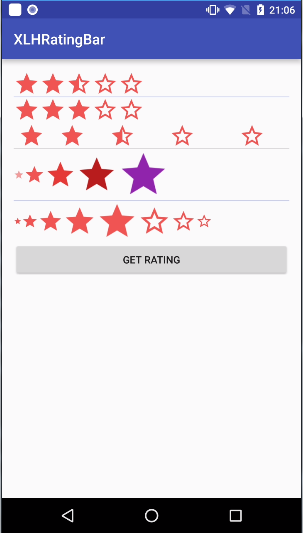
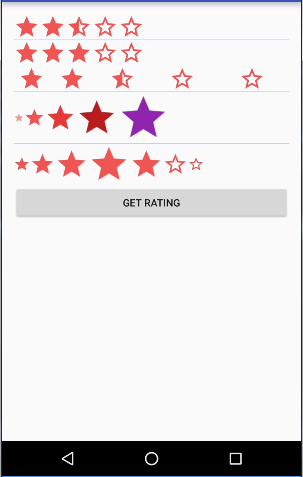
update readme

diff --git a/app/src/main/java/com/example/xlhratingbar/MainActivity.java b/app/src/main/java/com/example/xlhratingbar/MainActivity.java
@@ -18,7 +18,7 @@ public class MainActivity extends AppCompatActivity {
 
     private void initView() {
         final XLHRatingBar xlhRatingBar = (XLHRatingBar) findViewById(R.id.ratingBar);
-        xlhRatingBar.setNumStars(8);
+        xlhRatingBar.setNumStars(7);
         xlhRatingBar.setRating(5);
         xlhRatingBar.setRatingView(new SimpleRatingView5());
         xlhRatingBar.setOnRatingChangeListener(new XLHRatingBar.OnRatingChangeListener() {

diff --git a/README.md b/README.md
@@ -1,58 +1,144 @@
-# XLHRatingBar
-自定义Ratingbar，与系统提供的RatingBar相比可更方便指定每个星星的图标、大小及各个星星的间距，支持监听选中状态的变化
----------
-## 在xml布局文件中使用：  
-```xml
-  <com.example.xlhratingbar_lib.XLHRatingBar
-    xmlns:xlhRatingBar="http://schemas.android.com/apk/res-auto"
-        android:id="@+id/ratingBar"
-        android:layout_width="wrap_content"
-        android:layout_height="wrap_content"
-        xlhRatingBar:canEdit="true"
-        xlhRatingBar:differentSize="true"
-        xlhRatingBar:dividerWidth="5dp"
-        xlhRatingBar:rating="2"
-        xlhRatingBar:starCount="5"
-        xlhRatingBar:stateResId="@drawable/comment_ratingbar_selector"
-        xlhRatingBar:widthAndHeight="50dp"
-        />
- ```
- 其定义属性中：<br>
- * canEdit true 可以点击选择不同的星星，默认false
- * differentSize 星星的大小可以不同（中间的最大，两端的依次变小且星星总数为奇数时才有效）
- * dividerWidth 单个星星之间的间隔
- * starCount 星星的总个数
- * widthAndHeight 星星的大小
- * rating 已经选择的星星的个数
- * stateResId单个星星的不同状态,在drawable下：</br>
- ```xml
- <selector xmlns:android="http://schemas.android.com/apk/res/android">
-    <item android:drawable="@drawable/evaluation_order_star_press" android:state_checked="true"></item>
-    <item android:drawable="@drawable/evaluation_order_star" android:state_checked="false"></item>
-</selector>
- ```
-   
-   
- ## 在代码中使用：
- ```java
-  XLHRatingBar ratingBar = (XLHRatingBar) findViewById(R.id.ratingBar);
-        ratingBar.setCountNum(5);
-        ratingBar.setCountSelected(1);
-        ratingBar.setOnRatingChangeListener(new XLHRatingBar.OnRatingChangeListener() {
-            @Override
-            public void onChange(int rating) {
-                tvResult.setText(rating + "");
-            }
-        });
- ```
- <br>附上效果图一张<br>
- ![](https://github.com/xingliuhua/XLHRatingBar/raw/master/result.png)<br>
-----
-## 引用
-gradle dependency<br>
-```xml
-dependencies {
-     compile 'com.xingliuhua:xlhratingbar_lib:1.0.1'
-}
- ```
+netstatelayout extend XLHRatingBar.you can custom star style
 
+<img src="https://github.com/xingliuhua/XLHRatingBar/20180807210646.png" height="330" width="190" >
+
+
+### How to use
+#### add the library as dependency
+
+Add the library as dependency to your build.gradle file.
+```gradle
+dependencies {
+	//other dependencies...
+	compile 'com.xingliuhua:xlhratingbar_lib:2.0'
+}
+```
+#### implement interface
+implement IRatingViewand  to custom your star UI.of course,you can see SimpleRatingView
+```java
+public interface IRatingView {
+    /**
+     * get image resource state by posi and state
+     *
+     * @param posi
+     * @param state
+     * @return
+     */
+    int getStateRes(int posi, int state);
+
+    /**
+     * @param rating
+     * @param numStars
+     * @param position from 0
+     * @return
+     */
+    int getCurrentState(float rating, int numStars, int position);
+
+    /**
+     * get a ImageView,you can set LinearLayout.LayoutParams for your ImageView
+     *
+     * @param context
+     * @param posi    from 0
+     * @return
+     */
+    ImageView getRatingView(Context context,int numStars, int posi);
+
+    /**
+     * not selected
+     */
+    public static final int STATE_NONE = 0;
+    /**
+     * select half
+     */
+    public static final int STATE_HALF = 1;
+    /**
+     * selected
+     */
+    public static final int STATE_FULL = 2;
+
+}
+```
+SimpleRatingView:
+```java
+public class SimpleRatingView implements IRatingView {
+
+    @Override
+    public int getStateRes(int posi, int state) {
+        int id = R.drawable.ic_star_border_red_400_36dp;
+        switch (state) {
+            case STATE_NONE:
+                id = R.drawable.ic_star_border_red_400_36dp;
+                break;
+            case STATE_HALF:
+                id = R.drawable.ic_star_half_red_400_36dp;
+                break;
+            case STATE_FULL:
+                id = R.drawable.ic_star_red_400_36dp;
+                break;
+            default:
+                break;
+        }
+        return id;
+    }
+
+    @Override
+    public int getCurrentState(float rating, int numStars, int position) {
+        position++;
+        float dis = position - rating;
+        if (dis <= 0) {
+            return STATE_FULL;
+        }
+        if (dis == 0.5) {
+            return STATE_HALF;
+        }
+        if (dis > 0.5) {
+            return STATE_NONE;
+        }
+        return 0;
+    }
+
+
+    @Override
+    public ImageView getRatingView(Context context, int numStars, int posi) {
+        ImageView imageView = new ImageView(context);
+        return imageView;
+    }
+}
+```
+#### use XLHRatingBar in xml
+```xml
+<com.example.xlhratingbar_lib.XLHRatingBar
+		xmlns:app="http://schemas.android.com/apk/res-auto"
+        android:layout_width="match_parent"
+        android:layout_height="wrap_content"
+        android:gravity="center_vertical"
+        app:numStars="5"
+        app:rating="5"
+        app:ratingViewClass="com.example.xlhratingbar.SimpleRatingView"
+        />
+```
+you can set star num ,rating and ratingView class name
+#### set view
+you can set rating view by code or xml
+set view by code:
+```java
+ xlhRatingBar.setRatingView(new SimpleRatingView5());
+```
+other:
+
+```java
+ xlhRatingBar.setNumStars(7);
+ xlhRatingBar.setRating(5);
+ xlhRatingBar.setOnRatingChangeListener(new XLHRatingBar.OnRatingChangeListener() {
+            @Override
+            public void onChange(float rating, int numStars) {
+                Toast.makeText(getApplicationContext(), "rating:" + rating, Toast.LENGTH_SHORT).show();
+            }
+ });
+findViewById(R.id.btn_get_rating).setOnClickListener(new View.OnClickListener() {
+            @Override
+            public void onClick(View v) {
+                Toast.makeText(getApplicationContext(), "rating:" + xlhRatingBar.getRating(), Toast.LENGTH_SHORT).show();
+            }
+});
+```
